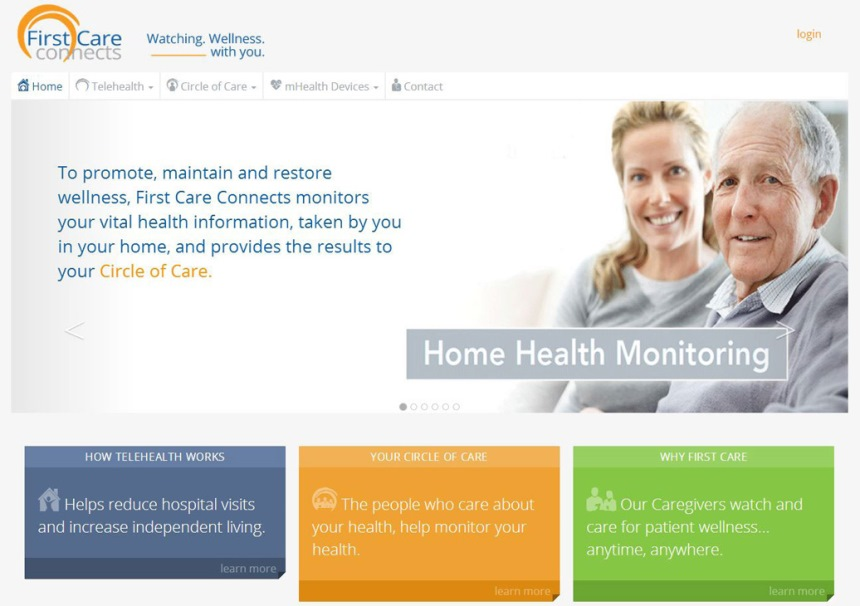
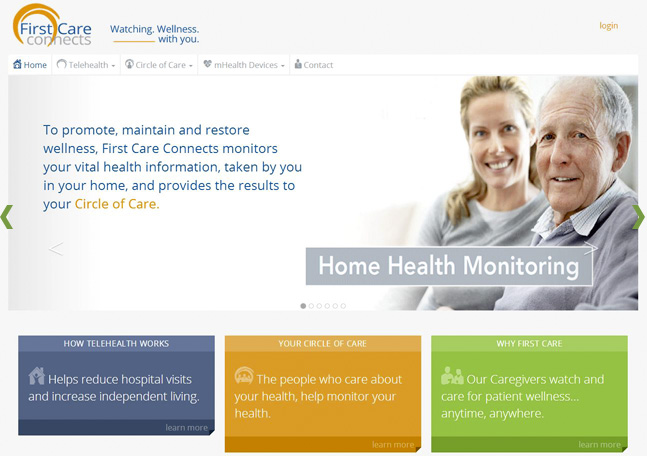
made first care slide @2x

diff --git a/Web/index.html b/Web/index.html
@@ -31,7 +31,7 @@
     <link rel="stylesheet" type="text/css"  href="css/jquery.mCustomScrollbar.css" />
     <link rel="stylesheet" type="text/css"  href="css/magnific-popup.css" media="screen" />
     <link rel="stylesheet" type="text/css"  href="css/flexslider.min.css" media="screen" />
-    <link rel="stylesheet" type="text/css"  href="css/supersized.min.css" media="screen" />
+   <link rel="stylesheet" type="text/css"  href="css/supersized.min.css" media="screen" />
     <link rel="stylesheet" type="text/css"  href="css/supersized.shutter.min.css" media="screen" />
     
     <!--[if gte IE 9]>
@@ -49,8 +49,8 @@
     
     <script type="text/javascript" src="js/jquery.fitvids.js"></script>
     <script type="text/javascript" src="js/jflickrfeed.min.js"></script>	  
-    <script type="text/javascript" src="https://maps.googleapis.com/maps/api/js?v=3.exp&amp;sensor=false"></script> 
-    <script type="text/javascript" src="js/supersized.3.2.7.min.js"></script>
+  <script type="text/javascript" src="https://maps.googleapis.com/maps/api/js?v=3.exp&amp;sensor=false"></script> 
+  <script type="text/javascript" src="js/supersized.3.2.7.min.js"></script>
     <script type="text/javascript" src="js/supersized.shutter.min.js"></script>
     <script type="text/javascript" src="js/jquery.magnific-popup.min.js"></script>   
     <script type="text/javascript" src="js/jquery.mCustomScrollbar.concat.min.js"></script>
@@ -279,16 +279,13 @@ Page navigation - Use to Scroll the page from section to section
 	<div class="nextPage autoPosition"> <span>   </span></div>
 </div>
 
-    
-                
+                   
 
 <!-- pgScrollUp navigation used to scroll the page to top position -->
 
 <div class="pgScrollUp"></div>
 
 
-
-<!-- Complete web site content is placed inside the bodyContainer class div-->
 
 <div class="bodyContainer">
 
@@ -332,11 +329,11 @@ Page navigation - Use to Scroll the page from section to section
                         <li class="pane1">
                             <h3>responsive, secure, real-time data health readings </h3>
                             
-                             <h2><img src="images/web-work/firstcare.jpg"  /> <<<</h2>
+                             <h2><img src="images/web-work/firstcare.jpg"  /> <</h2>
                         </li>
                         <li class="pane2">
                              <h3>dashboard of home health monitoring </h3>
-                              <h2> <<< <img src="images/web-work/firstcare.jpg" /> >>></h2>
+                              <h2> <img src="images/web-work/firstcare-dashboard.jpg" /></h2>
                         </li>
                     </ul>
                 </div>
@@ -841,10 +838,6 @@ Page navigation - Use to Scroll the page from section to section
 </div>
 
 
- 
-
-
-
 
 <!-- Contact us -->
        
@@ -962,10 +955,7 @@ Page navigation - Use to Scroll the page from section to section
     <script  src="http://cdnjs.cloudflare.com/ajax/libs/modernizr/2.6.2/modernizr.js"></script>-->
     
     <script data-required="js/hammer.js@2" data-semver="1.0.5" src="js/hammer.js"></script>
-
-
-
-    
+   
 
 <script>
 
@@ -1099,14 +1089,14 @@ Page navigation - Use to Scroll the page from section to section
     carousel.init();
 
     </script>
- <script>
-     // fix bug of retina.js
+
+  <!--   // fix bug of retina.js
      // it will set height = 0 and width = 0 to img
      // which are in a container that is initially not visible
    // $img = $('img');
   //  $img.removeAttr('height');
-  //  $img.removeAttr('width');
-    </script>
+  //  $img.removeAttr('width');-->
+
 <script type="text/javascript" src="js/retina.js"></script>
     
    
